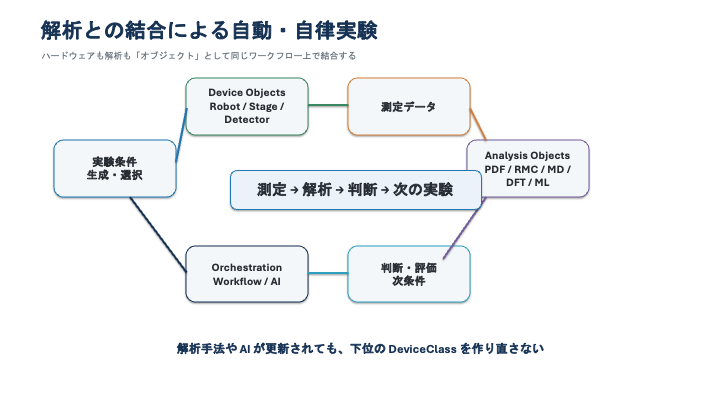
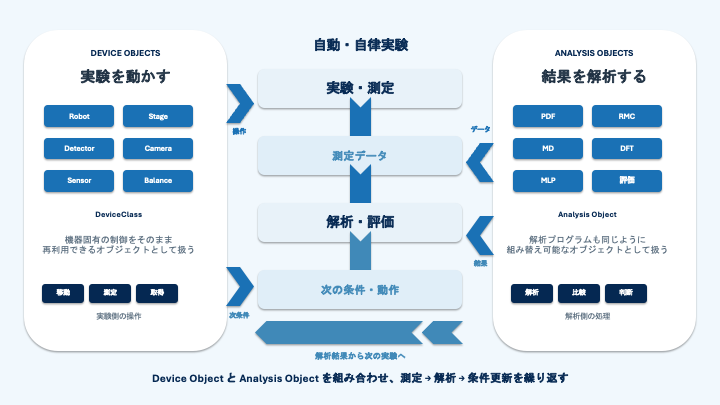
Update Susanoo documentation: Add new sections for DeviceClass, Framework, and その他 categories

diff --git a/index.md b/index.md
@@ -383,7 +383,7 @@ FANACのスサノオでの制御アレコレ
 どのような汎用 API を用意して、どのような大きな構成を見据えた巨大なフレームワークを作っても、
 上位の命令・実行系は AI を含めて今後も大きく変化していくと考えられるからだ。
 
-<img src="fig/device-server.png" width="85%" style="display:block; margin:auto;">
+<img src="fig/device-server.png" width="80%" style="display:block; margin:auto;">
 
 その時に残るシステムバックエンドは、
 保守メンテナンスに優れたデバイス単位のミニマムな構成である。
@@ -412,7 +412,7 @@ FANACのスサノオでの制御アレコレ
 測定結果を解析し、その結果から次の動作や測定条件を決定する、
 自律的な自動実験へ容易に展開することができる。
 
-<img src="fig/automation.png" width="85%" style="display:block; margin:auto;">
+<img src="fig/automation.png" width="80%" style="display:block; margin:auto;">
 
 巨大なフレームワークは、その時代の技術や要求に強く依存し、
 一度構築しても短期間で陳腐化する。
